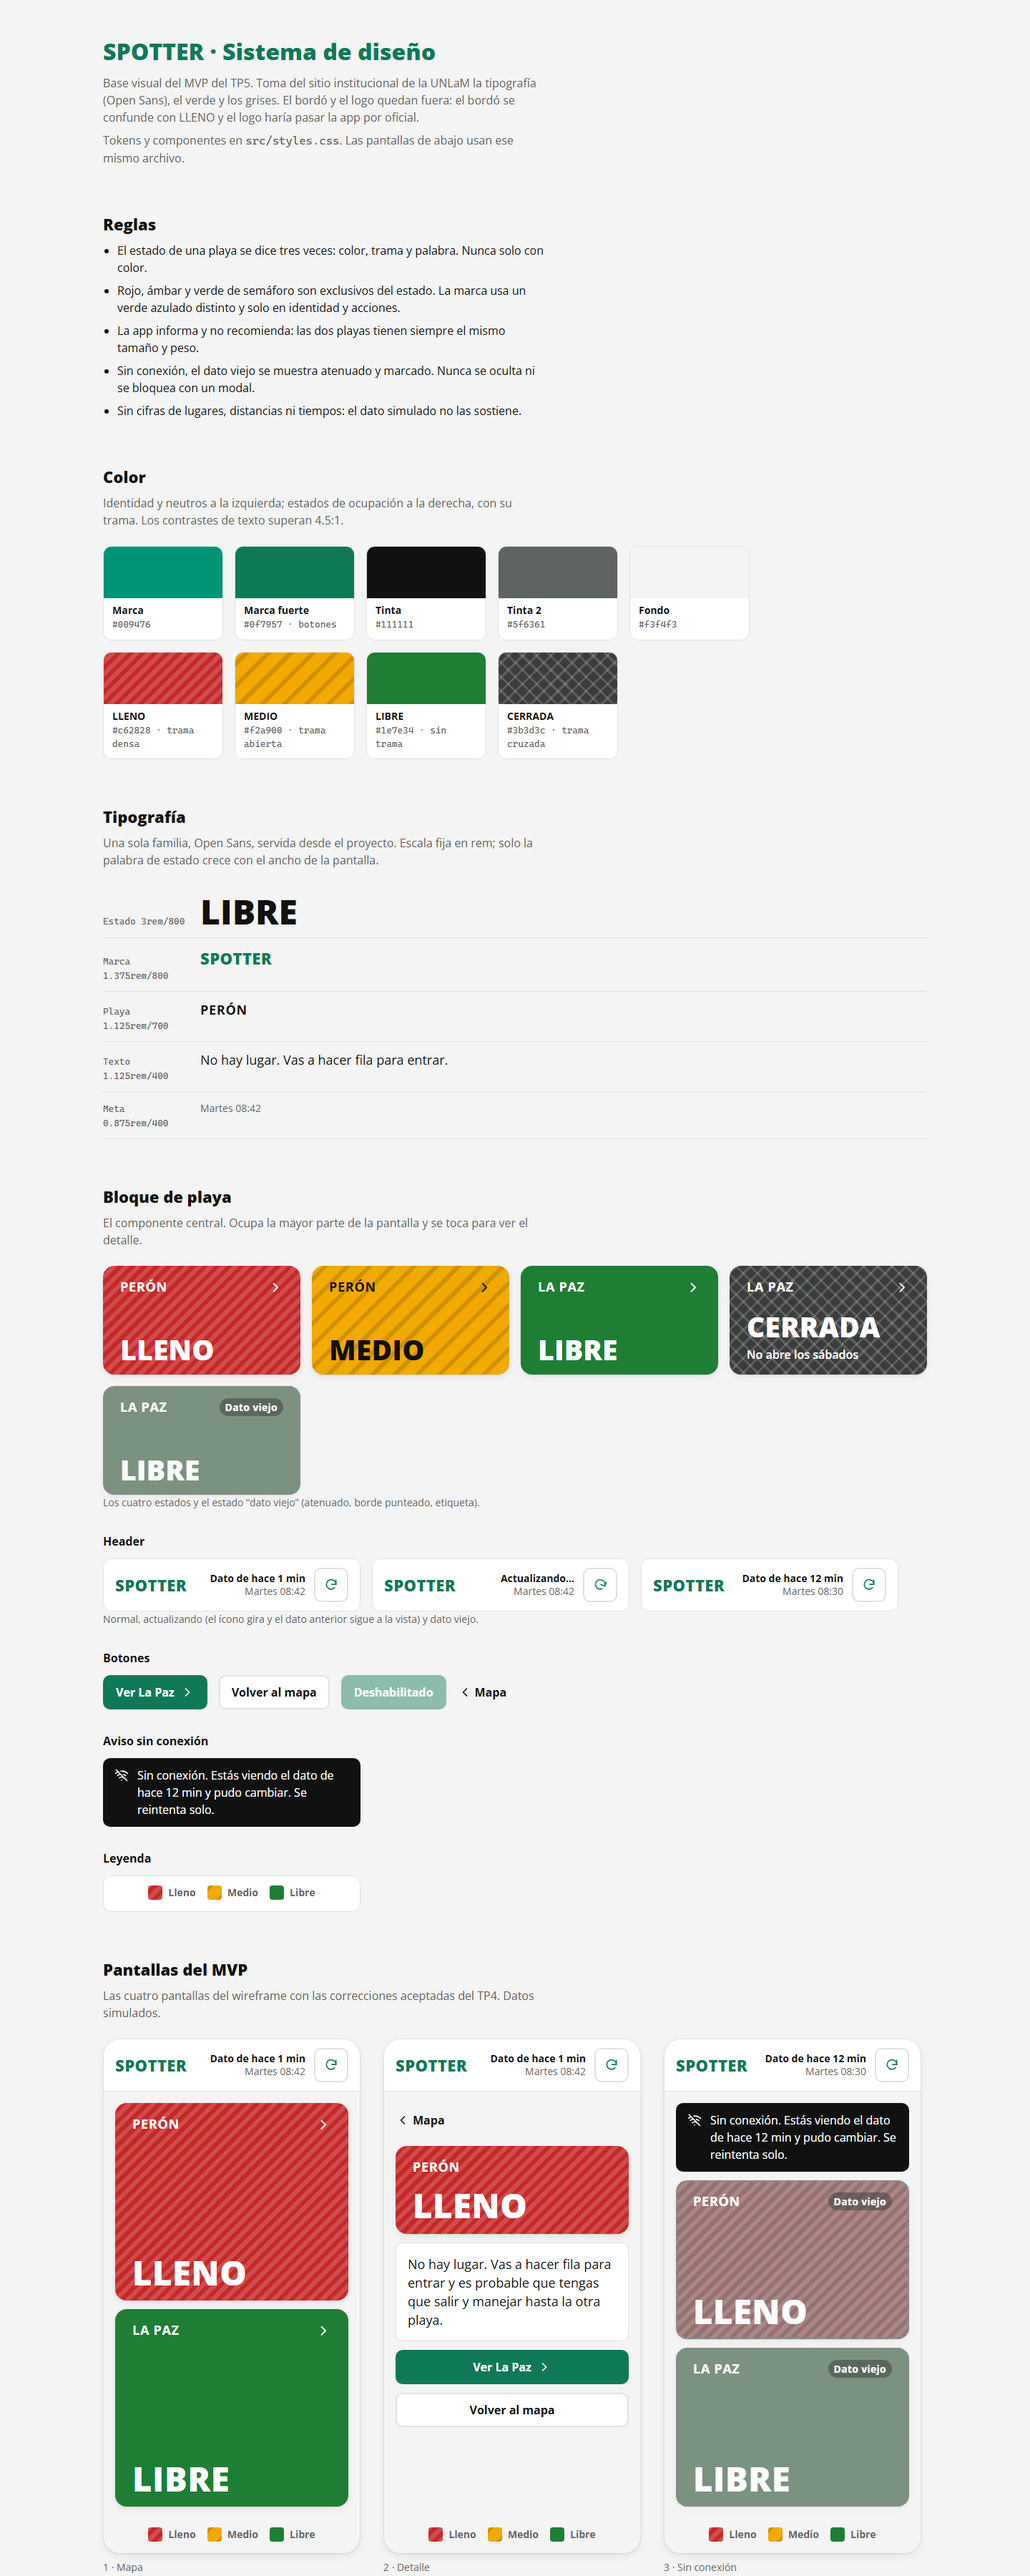
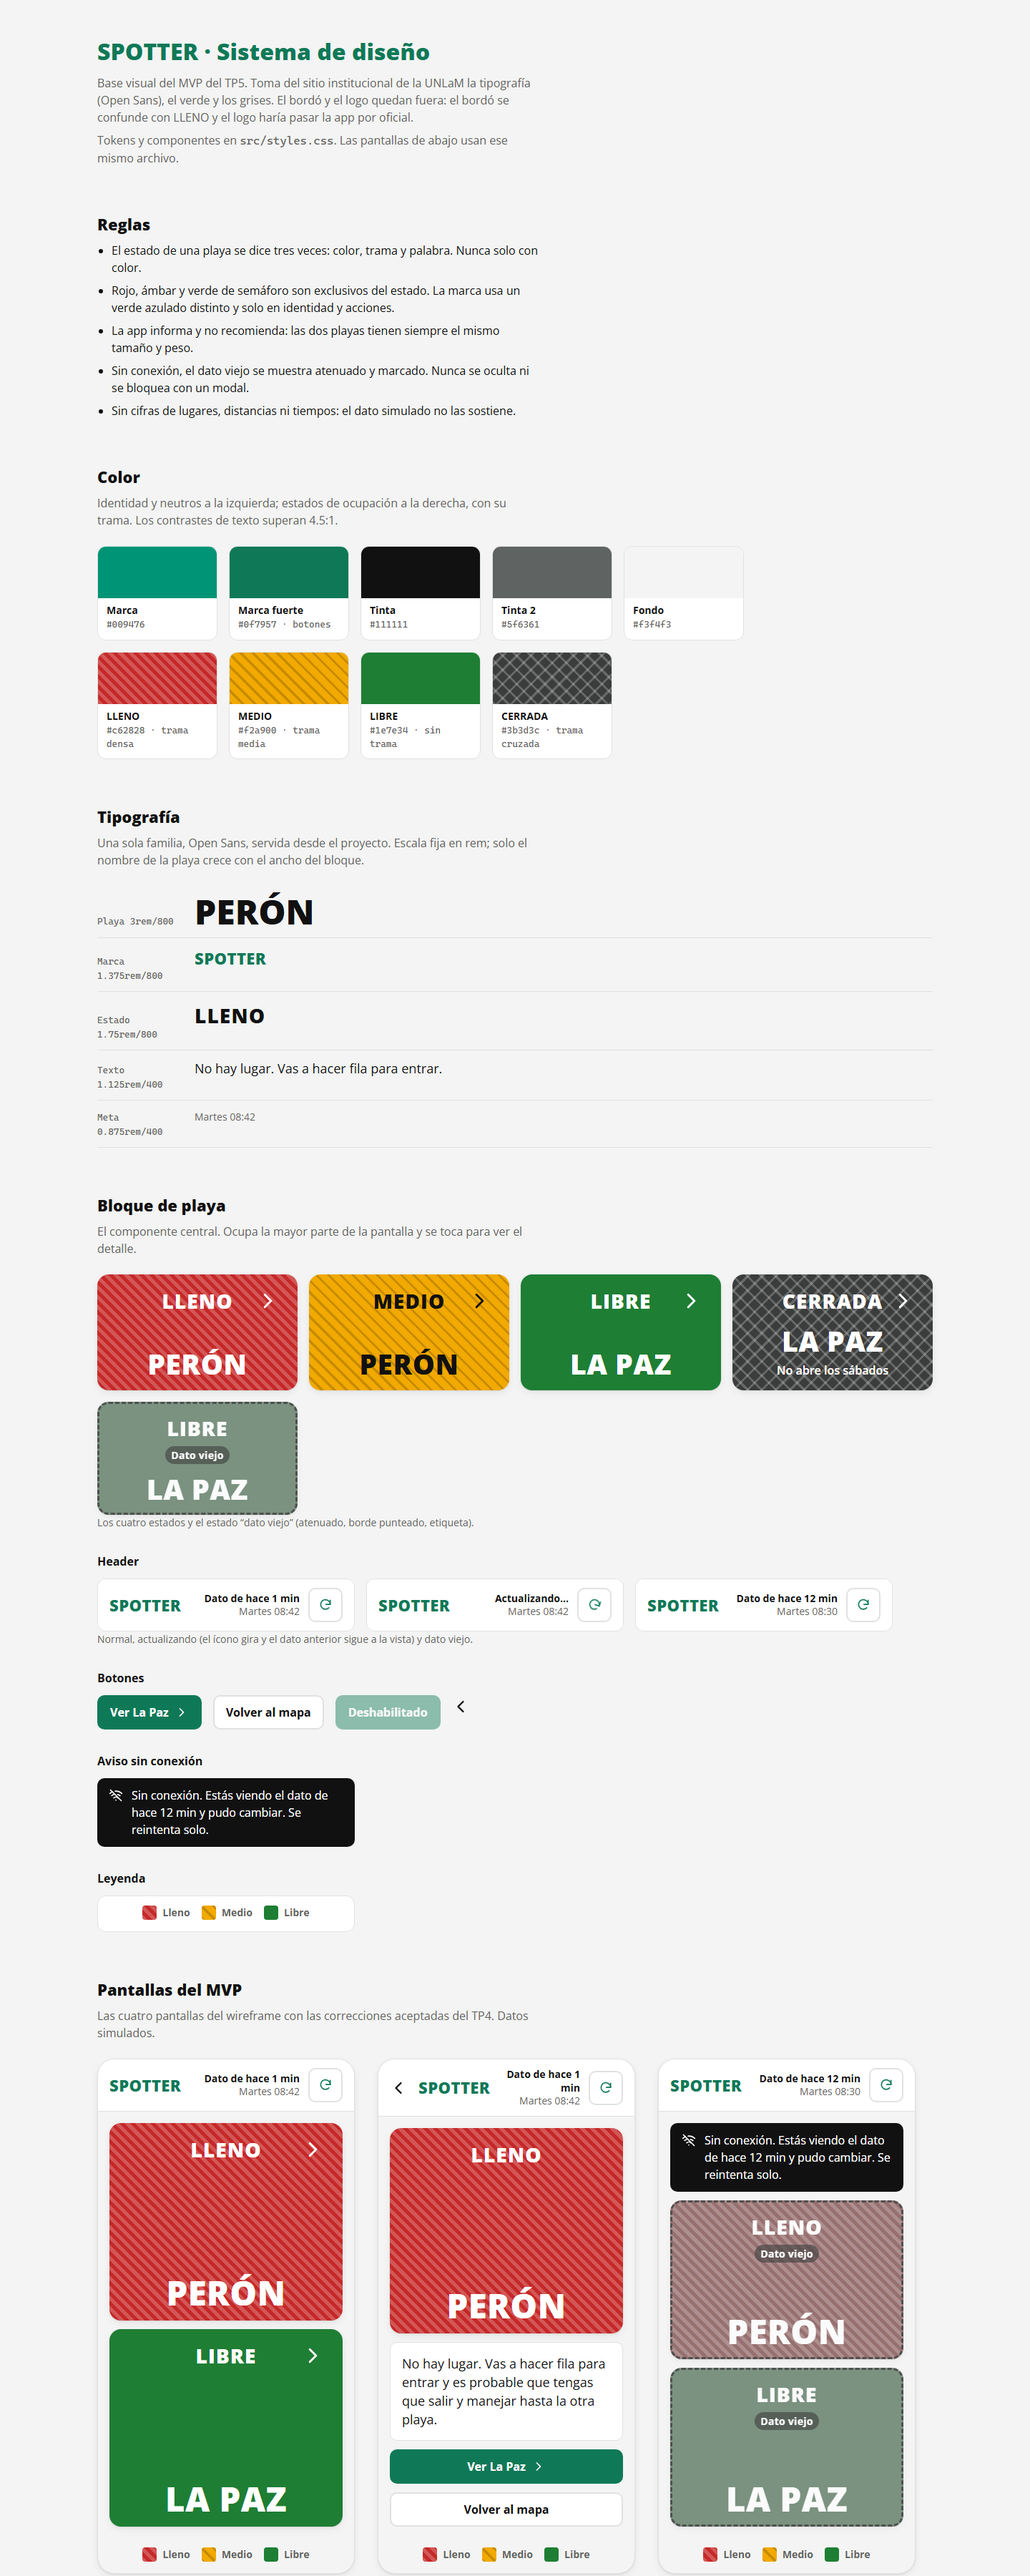
feat(mvp): todo centrado, estado arriba y nombre de la playa grande abajo
Decisión del equipo. "Dato viejo" pasa debajo del estado para no pisarlo en
bloques angostos. DESIGN.md, especímenes y capturas actualizados.

diff --git a/docs/diseno/design-system.html b/docs/diseno/design-system.html
@@ -75,21 +75,21 @@
   </div>
 
   <h2>Tipografía</h2>
-  <p>Una sola familia, Open Sans, servida desde el proyecto. Escala fija en rem; solo la palabra de estado crece con el ancho de la pantalla.</p>
-  <div class="type-row"><code>Estado 3rem/800</code><span style="font-size:var(--text-state);font-weight:800;line-height:1">LIBRE</span></div>
+  <p>Una sola familia, Open Sans, servida desde el proyecto. Escala fija en rem; solo el nombre de la playa crece con el ancho del bloque.</p>
+  <div class="type-row"><code>Playa 3rem/800</code><span style="font-size:var(--text-state);font-weight:800;line-height:1">PERÓN</span></div>
   <div class="type-row"><code>Marca 1.375rem/800</code><span class="brand">SPOTTER</span></div>
-  <div class="type-row"><code>Playa 1.125rem/700</code><span style="font-size:var(--text-lg);font-weight:700;letter-spacing:.04em">PERÓN</span></div>
+  <div class="type-row"><code>Estado 1.75rem/800</code><span style="font-size:var(--text-2xl);font-weight:800;letter-spacing:.04em">LLENO</span></div>
   <div class="type-row"><code>Texto 1.125rem/400</code><span style="font-size:var(--text-lg)">No hay lugar. Vas a hacer fila para entrar.</span></div>
   <div class="type-row"><code>Meta 0.875rem/400</code><span style="font-size:var(--text-sm);color:var(--ink-2)">Martes 08:42</span></div>
 
   <h2>Bloque de playa</h2>
   <p>El componente central. Ocupa la mayor parte de la pantalla y se toca para ver el detalle.</p>
   <div class="lots-demo">
-    <a class="lot" href="#" data-state="full"><span class="lot__head">Perón <svg class="icon"><use href="#i-next"/></svg></span><span class="lot__state">Lleno</span></a>
-    <a class="lot" href="#" data-state="mid"><span class="lot__head">Perón <svg class="icon"><use href="#i-next"/></svg></span><span class="lot__state">Medio</span></a>
-    <a class="lot" href="#" data-state="free"><span class="lot__head">La Paz <svg class="icon"><use href="#i-next"/></svg></span><span class="lot__state">Libre</span></a>
-    <a class="lot" href="#" data-state="closed"><span class="lot__head">La Paz <svg class="icon"><use href="#i-next"/></svg></span><span><span class="lot__state">Cerrada</span><span class="lot__note">No abre los sábados</span></span></a>
-    <a class="lot is-stale" href="#" data-state="free"><span class="lot__head">La Paz <span class="tag">Dato viejo</span></span><span class="lot__state">Libre</span></a>
+    <a class="lot" href="#" data-state="full"><span class="lot__head">Lleno <svg class="icon"><use href="#i-next"/></svg></span><span class="lot__name">Perón</span></a>
+    <a class="lot" href="#" data-state="mid"><span class="lot__head">Medio <svg class="icon"><use href="#i-next"/></svg></span><span class="lot__name">Perón</span></a>
+    <a class="lot" href="#" data-state="free"><span class="lot__head">Libre <svg class="icon"><use href="#i-next"/></svg></span><span class="lot__name">La Paz</span></a>
+    <a class="lot" href="#" data-state="closed"><span class="lot__head">Cerrada <svg class="icon"><use href="#i-next"/></svg></span><span><span class="lot__name">La Paz</span><span class="lot__note">No abre los sábados</span></span></a>
+    <a class="lot is-stale" href="#" data-state="free"><span class="lot__head">Libre <span class="tag">Dato viejo</span></span><span class="lot__name">La Paz</span></a>
   </div>
   <p class="caption">Los cuatro estados y el estado “dato viejo” (atenuado, borde punteado, etiqueta).</p>
 
@@ -132,8 +132,8 @@
       <div class="app">
         <header class="app-header"><p class="brand">SPOTTER</p><p class="data-age"><strong>Dato de hace 1 min</strong>Martes 08:42</p><button class="btn btn-refresh" aria-label="Actualizar"><svg class="icon"><use href="#i-refresh"/></svg></button></header>
         <div class="app-main">
-          <a class="lot" href="#" data-state="full"><span class="lot__head">Perón <svg class="icon"><use href="#i-next"/></svg></span><span class="lot__state">Lleno</span></a>
-          <a class="lot" href="#" data-state="free"><span class="lot__head">La Paz <svg class="icon"><use href="#i-next"/></svg></span><span class="lot__state">Libre</span></a>
+          <a class="lot" href="#" data-state="full"><span class="lot__head">Lleno <svg class="icon"><use href="#i-next"/></svg></span><span class="lot__name">Perón</span></a>
+          <a class="lot" href="#" data-state="free"><span class="lot__head">Libre <svg class="icon"><use href="#i-next"/></svg></span><span class="lot__name">La Paz</span></a>
         </div>
         <ul class="legend"><li><span class="swatch" data-state="full"></span>Lleno</li><li><span class="swatch" data-state="mid"></span>Medio</li><li><span class="swatch" data-state="free"></span>Libre</li></ul>
       </div>
@@ -144,7 +144,7 @@
       <div class="app">
         <header class="app-header"><a class="btn-back" href="#" aria-label="Volver al mapa"><svg class="icon"><use href="#i-back"/></svg></a><p class="brand">SPOTTER</p><p class="data-age"><strong>Dato de hace 1 min</strong>Martes 08:42</p><button class="btn btn-refresh" aria-label="Actualizar"><svg class="icon"><use href="#i-refresh"/></svg></button></header>
         <div class="app-main">
-          <div class="lot detail-state" data-state="full"><span class="lot__head">Perón</span><span class="lot__state">Lleno</span></div>
+          <div class="lot detail-state" data-state="full"><span class="lot__head">Lleno</span><span class="lot__name">Perón</span></div>
           <div class="detail-body">
             <p class="consequence">No hay lugar. Vas a hacer fila para entrar y es probable que tengas que salir y manejar hasta la otra playa.</p>
             <a class="btn btn--primary btn--block" href="#">Ver La Paz <svg class="icon"><use href="#i-next"/></svg></a>
@@ -161,8 +161,8 @@
         <header class="app-header"><p class="brand">SPOTTER</p><p class="data-age is-stale"><strong>Dato de hace 12 min</strong>Martes 08:30</p><button class="btn btn-refresh" aria-label="Actualizar"><svg class="icon"><use href="#i-refresh"/></svg></button></header>
         <div class="app-main">
           <div class="notice" role="status"><svg class="icon"><use href="#i-offline"/></svg><p>Sin conexión. Estás viendo el dato de hace 12 min y pudo cambiar. Se reintenta solo.</p></div>
-          <a class="lot is-stale" href="#" data-state="full"><span class="lot__head">Perón <span class="tag">Dato viejo</span></span><span class="lot__state">Lleno</span></a>
-          <a class="lot is-stale" href="#" data-state="free"><span class="lot__head">La Paz <span class="tag">Dato viejo</span></span><span class="lot__state">Libre</span></a>
+          <a class="lot is-stale" href="#" data-state="full"><span class="lot__head">Lleno <span class="tag">Dato viejo</span></span><span class="lot__name">Perón</span></a>
+          <a class="lot is-stale" href="#" data-state="free"><span class="lot__head">Libre <span class="tag">Dato viejo</span></span><span class="lot__name">La Paz</span></a>
         </div>
         <ul class="legend"><li><span class="swatch" data-state="full"></span>Lleno</li><li><span class="swatch" data-state="mid"></span>Medio</li><li><span class="swatch" data-state="free"></span>Libre</li></ul>
       </div>
@@ -173,8 +173,8 @@
       <div class="app">
         <header class="app-header"><p class="brand">SPOTTER</p><p class="data-age"><strong>Dato de hace 1 min</strong>Sábado 10:15</p><button class="btn btn-refresh" aria-label="Actualizar"><svg class="icon"><use href="#i-refresh"/></svg></button></header>
         <div class="app-main">
-          <a class="lot" href="#" data-state="mid"><span class="lot__head">Perón <svg class="icon"><use href="#i-next"/></svg></span><span class="lot__state">Medio</span></a>
-          <a class="lot" href="#" data-state="closed"><span class="lot__head">La Paz <svg class="icon"><use href="#i-next"/></svg></span><span><span class="lot__state">Cerrada</span><span class="lot__note">No abre los sábados</span></span></a>
+          <a class="lot" href="#" data-state="mid"><span class="lot__head">Medio <svg class="icon"><use href="#i-next"/></svg></span><span class="lot__name">Perón</span></a>
+          <a class="lot" href="#" data-state="closed"><span class="lot__head">Cerrada <svg class="icon"><use href="#i-next"/></svg></span><span><span class="lot__name">La Paz</span><span class="lot__note">No abre los sábados</span></span></a>
         </div>
         <ul class="legend"><li><span class="swatch" data-state="full"></span>Lleno</li><li><span class="swatch" data-state="mid"></span>Medio</li><li><span class="swatch" data-state="free"></span>Libre</li><li><span class="swatch" data-state="closed"></span>Cerrada</li></ul>
       </div>

diff --git a/src/app.js b/src/app.js
@@ -52,8 +52,8 @@ function renderHeader() {
 function lot(id, { link }) {
   const state = app.data[id];
   const stale = offline();
-  const head = `<span class="lot__head">${LOTS[id]} ${stale ? '<span class="tag">Dato viejo</span>' : link ? icon("next") : ""}</span>`;
-  const body = `<span><span class="lot__state">${STATE_LABEL[state]}</span>${state === "closed" ? '<span class="lot__note">No abre los sábados</span>' : ""}</span>`;
+  const head = `<span class="lot__head">${STATE_LABEL[state]} ${stale ? '<span class="tag">Dato viejo</span>' : link ? icon("next") : ""}</span>`;
+  const body = `<span><span class="lot__name">${LOTS[id]}</span>${state === "closed" ? '<span class="lot__note">No abre los sábados</span>' : ""}</span>`;
   const cls = `lot${link ? "" : " detail-state"}${stale ? " is-stale" : ""}`;
   return link
     ? `<a class="${cls}" data-state="${state}" href="#/${id}" aria-label="${LOTS[id]}: ${STATE_LABEL[state]}. Ver detalle">${head}${body}</a>`

diff --git a/src/styles.css b/src/styles.css
@@ -289,7 +289,7 @@ body {
   border: 0;
   border-radius: var(--radius-lg);
   font: inherit;
-  text-align: left;
+  text-align: center;
   text-decoration: none;
   color: var(--lot-ink);
   background-color: var(--lot-bg);
@@ -321,16 +321,21 @@ body {
   text-transform: uppercase;
 }
 
-/* Flecha y etiqueta a la derecha sin descentrar el nombre. */
-.lot__head > .icon,
-.lot__head > .tag {
+/* Flecha a la derecha sin descentrar el estado. */
+.lot__head > .icon {
   position: absolute;
   right: 0;
   top: 50%;
   transform: translateY(-50%);
 }
 
-.lot__state {
+/* Dato viejo: la etiqueta va debajo del estado para no pisarlo en bloques angostos. */
+.lot.is-stale .lot__head {
+  flex-direction: column;
+  gap: var(--s-1);
+}
+
+.lot__name {
   display: block;
   font-size: var(--text-state);
   font-weight: 800;

diff --git a/DESIGN.md b/DESIGN.md
@@ -22,7 +22,7 @@ colors:
   line-dark: "#2d3233"
   brand-text-dark: "#3cc39f"
 typography:
-  state:
+  lot-name:
     fontFamily: "Open Sans, system-ui, sans-serif"
     fontSize: "clamp(2rem, 17cqi, 3rem)"
     fontWeight: 800
@@ -33,7 +33,7 @@ typography:
     fontSize: "1.375rem"
     fontWeight: 800
     letterSpacing: "0.02em"
-  title:
+  state:
     fontFamily: "Open Sans, system-ui, sans-serif"
     fontSize: "1.75rem"
     fontWeight: 800
@@ -142,9 +142,9 @@ neutros. El verde de marca es azulado y no se usa como fondo grande.
 
 **Familia:** Open Sans variable (300–800), servida desde `src/fonts/`, con `system-ui` de respaldo.
 
-- **Estado** (800, clamp 2–3rem según el ancho del bloque, mayúsculas): la palabra LLENO / MEDIO / LIBRE / CERRADA.
+- **Nombre de playa** (800, clamp 2–3rem según el ancho del bloque, mayúsculas): PERÓN / LA PAZ, abajo y centrado.
 - **Marca** (800, 1.375rem): "SPOTTER" en el header.
-- **Nombre de playa** (800, 1.75rem, mayúsculas, tracking 0.04em, centrado en el bloque).
+- **Estado** (800, 1.75rem, mayúsculas, tracking 0.04em): LLENO / MEDIO / LIBRE / CERRADA, arriba y centrado. El estado lo cargan juntos color, trama y palabra; el nombre grande es decisión del equipo.
 - **Texto** (400, 1rem–1.125rem, interlineado 1.5): consecuencias y avisos.
 - **Meta / leyenda** (0.875rem): antigüedad del dato, cifras tabulares.
 
@@ -168,7 +168,7 @@ Radio de 16px en bloques de playa, 10px en botones, avisos y paneles, 4px en las
 
 ## Components
 
-- **Bloque de playa** (`.lot[data-state]`): nombre arriba y centrado, estado enorme abajo, flecha si lleva al detalle. Trama a 45°: densa (LLENO), media (MEDIO), cruzada (CERRADA); LIBRE va lisa (decisión del equipo). Al tocar, escala a 0.985.
+- **Bloque de playa** (`.lot[data-state]`): estado arriba y nombre de la playa grande abajo, todo centrado, flecha si lleva al detalle. Trama a 45°: densa (LLENO), media (MEDIO), cruzada (CERRADA); LIBRE va lisa (decisión del equipo). Al tocar, escala a 0.985.
 - **Dato viejo** (`.lot.is-stale`): desaturado, opacidad 0.72, borde punteado y etiqueta "Dato viejo". Nunca se oculta ni se bloquea.
 - **Header** (`.app-header`): SPOTTER a la izquierda; antigüedad del dato (negrita) y día/hora a la derecha; botón Actualizar de solo ícono. Mientras actualiza, el ícono gira y el dato anterior sigue a la vista.
 - **Botones** (`.btn--primary`, `.btn--secondary`): 48px de alto, peso 700; deshabilitado al 45% de opacidad. En el detalle solo existe el botón hacia la otra playa.
